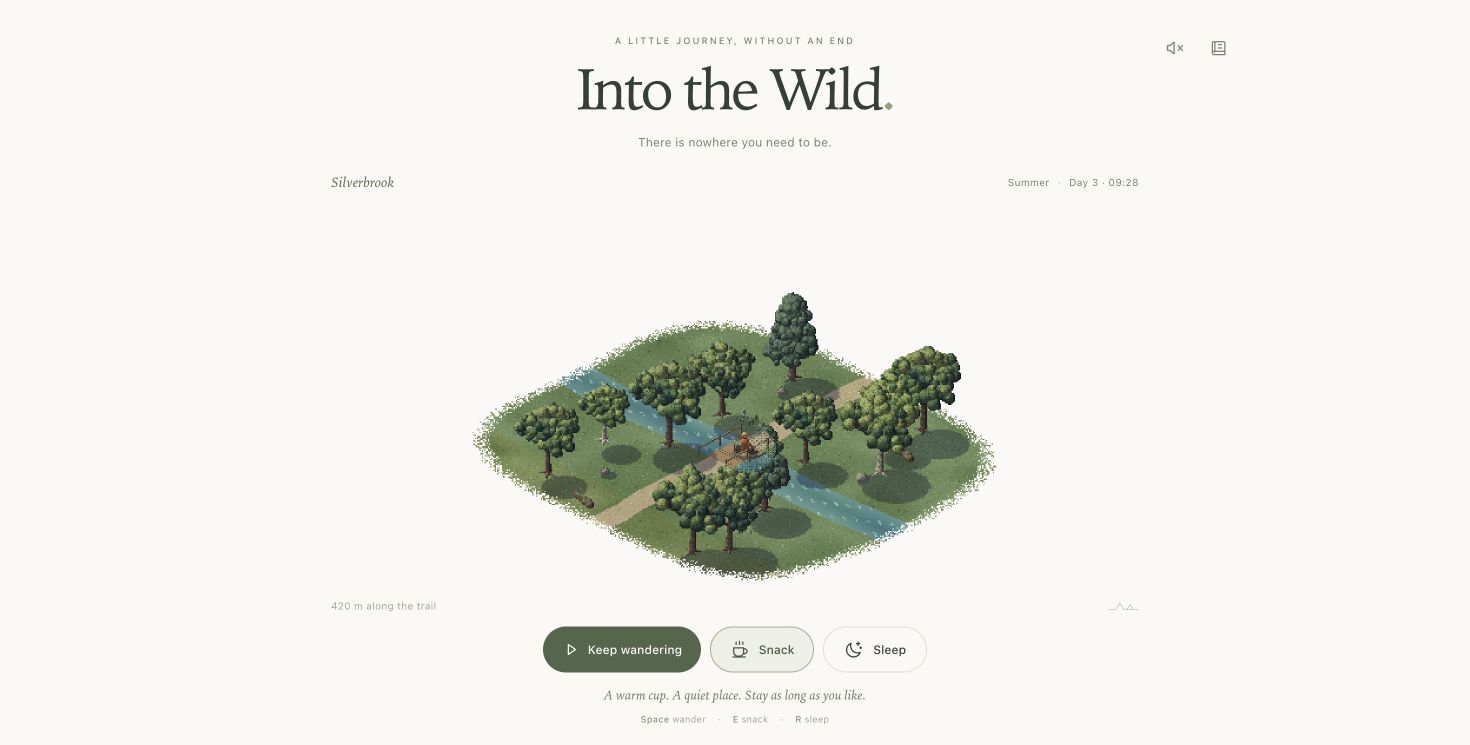
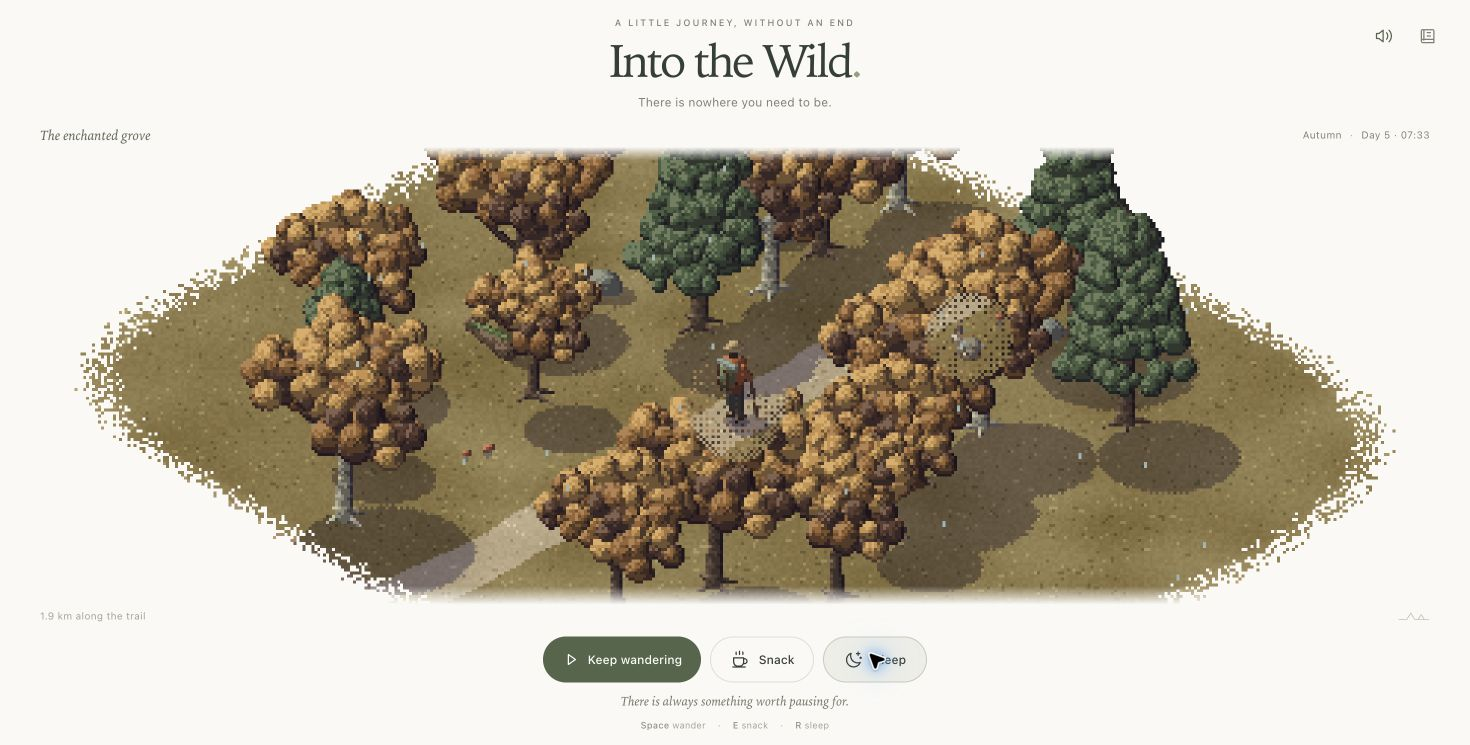
Refresh the README screenshot with the expanded live wilderness

diff --git a/README.md b/README.md
@@ -6,7 +6,7 @@
 
 Walk a winding trail through woods, streams, meadows, mountain passes and enchanted groves. Meet the wildlife, pause for a warm drink, or unroll your bed and wake in another morning. There is nowhere you need to be.
 
-![A traveller resting beside Silverbrook in Into the Wild](docs/into-the-wild.jpg)
+![The expanded autumn wilderness in Into the Wild](docs/into-the-wild.jpg)
 
 ## Play
 
